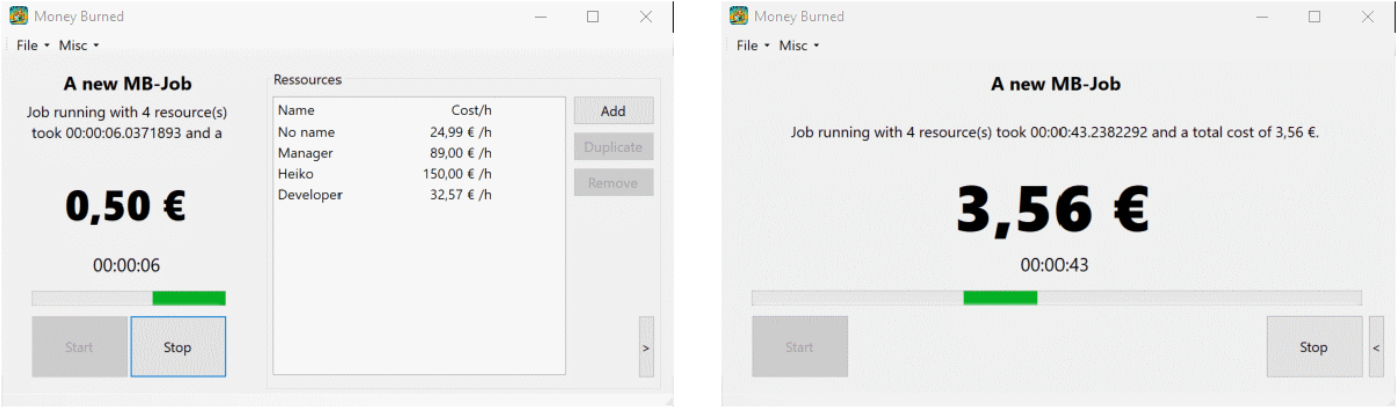
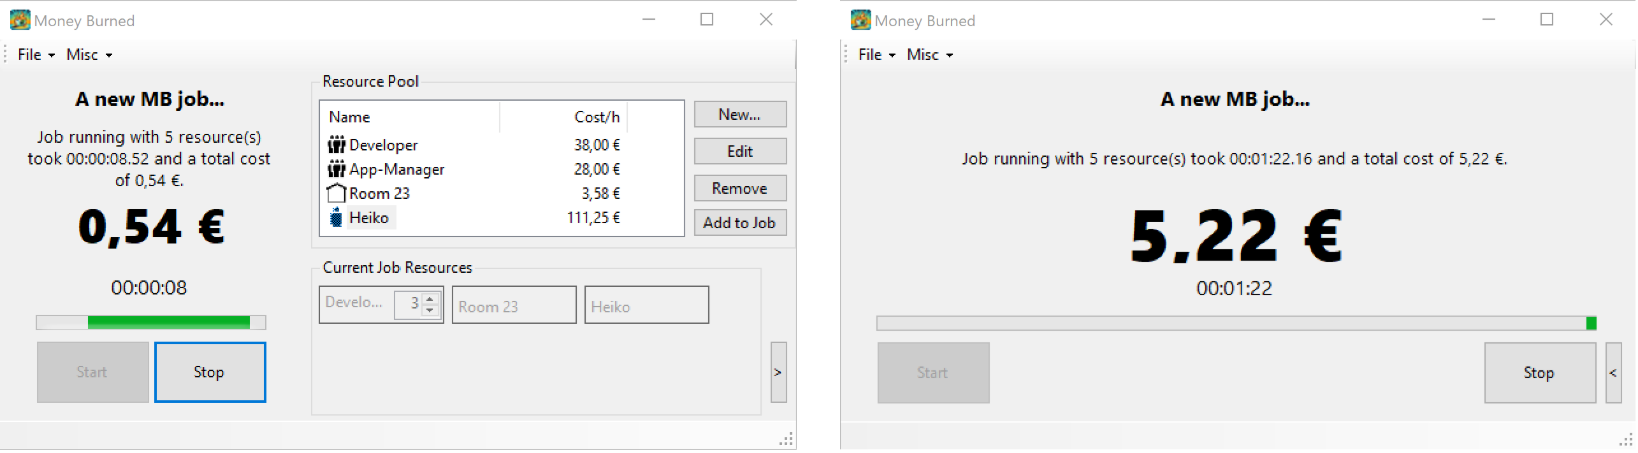
updated major improvements of current version

diff --git a/doc/dev-approach.md b/doc/dev-approach.md
@@ -58,17 +58,17 @@ If you are interested in using the minimal feature set only, please use the bran
 | MB 01.1 | Yes | Rate is 500ms |
 | MB 01.2 | Yes | |
 | MB 02.1 | Yes | |
-| OF 01.1 | No | |
-| OF 01.2 | No | |
-| OF 02.1 | No | |
-| OF 02.2 | No | |
-| OF 02.3 | No | |
-| OF 02.4 | No | |
+| OF 01.1 | Partially | Internally yes but the user can't use it right now |
+| OF 01.2 | No | Can pause but starting again is not ready right now |
+| OF 02.1 | Partially | In a way with _OF 02.2_ |
+| OF 02.2 | Yes | You can use generic resources that use amounts of the same resource |
+| OF 02.3 | Yes | A few resource categories are pre-defined |
+| OF 02.4 | Yes | Perhaps an explicitly defined status is missing |
 | OF 02.5 | No | |
-| OF 03.1 | No | |
+| OF 03.1 | Yes | |
 | OF 03.2 | No | |
 | OB 01.1 | No | |
-| OB 02.1 | No | |
+| OB 02.1 | Yes | Resources are taken from a pool of resources |
 | OB 03.1 | No | |
 | OB 03.2 | No | |
 
